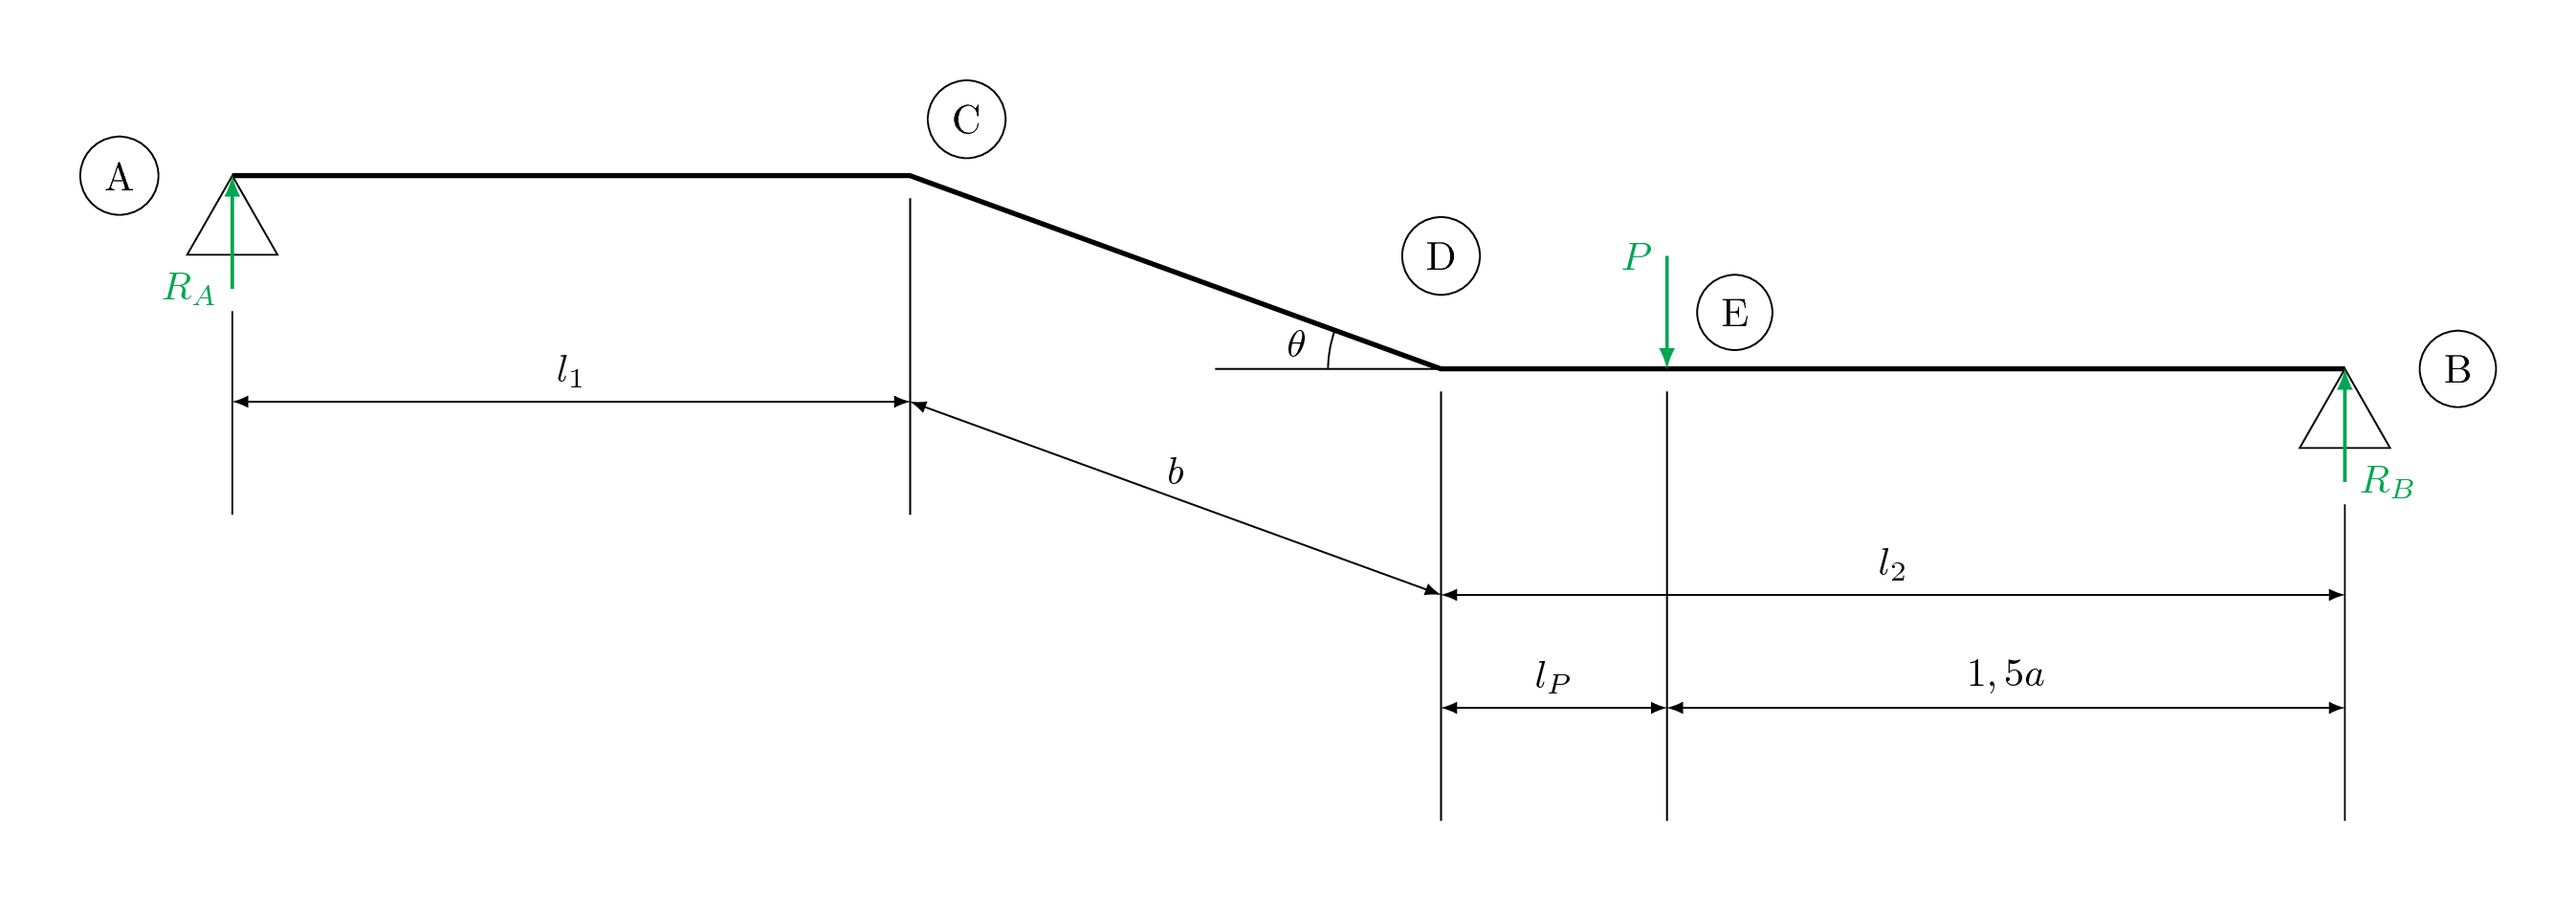
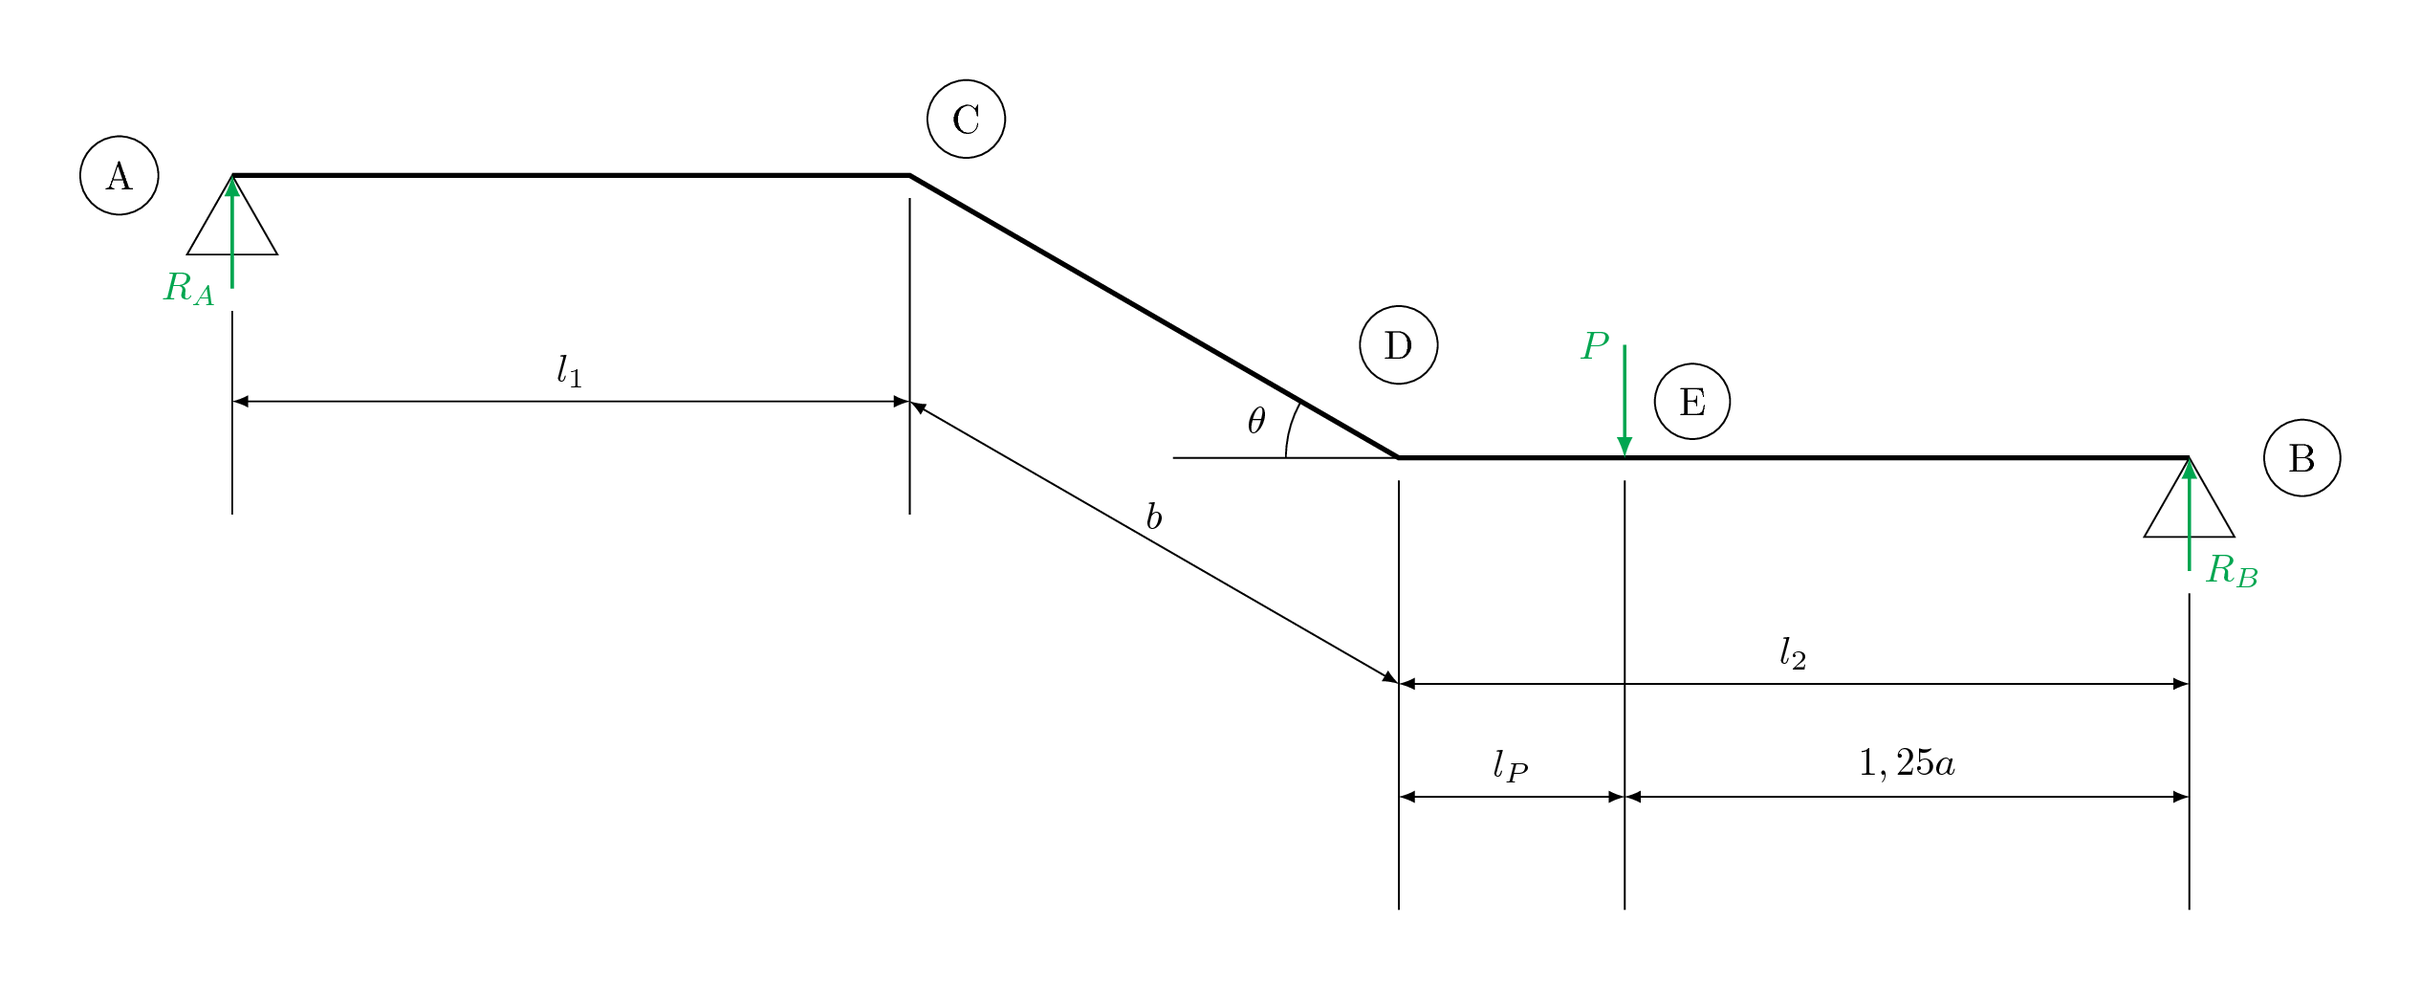
Fix bugs

diff --git a/Treball/esquema/all.tex b/Treball/esquema/all.tex
@@ -5,7 +5,7 @@
 \usepackage{tikz}
 \usetikzlibrary{shapes, patterns, calc}
 
-\def\angle{20}
+\def\angle{30}
 
 \begin{document}
 	\begin{tikzpicture}[
@@ -19,7 +19,7 @@
 	\coordinate (C) at (6, 0);
 	\coordinate (D) at ($(C) + ({5*cos(\angle)}, -{5*sin(\angle)})$);
 	\coordinate (E) at ($(D) + (2, 0)$);
-	\coordinate (B) at ($(E) + (6, 0)$);
+	\coordinate (B) at ($(E) + (5, 0)$);
 	
 	\draw[very thick] (A) -- (C) -- (D) -- (B);
 	\node [label] at ($(A) + (-1,0)$) {A};
@@ -46,7 +46,7 @@
 	
 	\draw [arrow] ($(D) - (0, 2)$) -- ($(B) - (0, 2)$) node[midway, above] {$l_2$};
 	\draw [arrow] ($(D) - (0, 3)$) -- ($(E) - (0, 3)$) node[midway, above] {$l_P$};
-	\draw [arrow] ($(E) - (0, 3)$) -- ($(B) - (0, 3)$) node[midway, above] {$1,5a$};
+	\draw [arrow] ($(E) - (0, 3)$) -- ($(B) - (0, 3)$) node[midway, above] {$1,25a$};
 	
 	% Tram delimiters
 	\draw ($(A) - (0, 1.2)$) -- ($(A) - (0, 3)$);

diff --git a/Treball/esquema/tram_CD.tex b/Treball/esquema/tram_CD.tex
@@ -49,14 +49,14 @@
 	\node [label] at ($(N1) - (1, .5)$) {N};
 	\draw[gFill] (N1) rectangle ($(N2) - (0, .5)$);
 	\draw[thick] (N1) -- (N2);
-	\node [Green, anchor=east] at ($(N1) + (0, .5)$) {$R_A \cdot \sin(\phi)$};
+	\node [Green, anchor=east] at ($(N1) + (0, .5)$) {$R_A \cdot \sin(\theta)$};
 	\node[inSymb, scale=.5] at ($(N1)!.5!(N3)$) {$-$};
 	
 	% Tallant
 	\node [label] at ($(T1) - (1, .5)$) {T};
 	\draw[gFill] (T1) rectangle (T3);
 	\draw[thick] (T1) -- (T2);
-	\node[Green, anchor=east] at ($(T1) + (0, .5)$) {$R_A \cdot \cos(\phi)$};
+	\node[Green, anchor=east] at ($(T1) + (0, .5)$) {$R_A \cdot \cos(\theta)$};
 	\node[inSymb, scale=.5] at ($(T1)!.5!(T3)$) {$+$};
 	
 	% Moment
